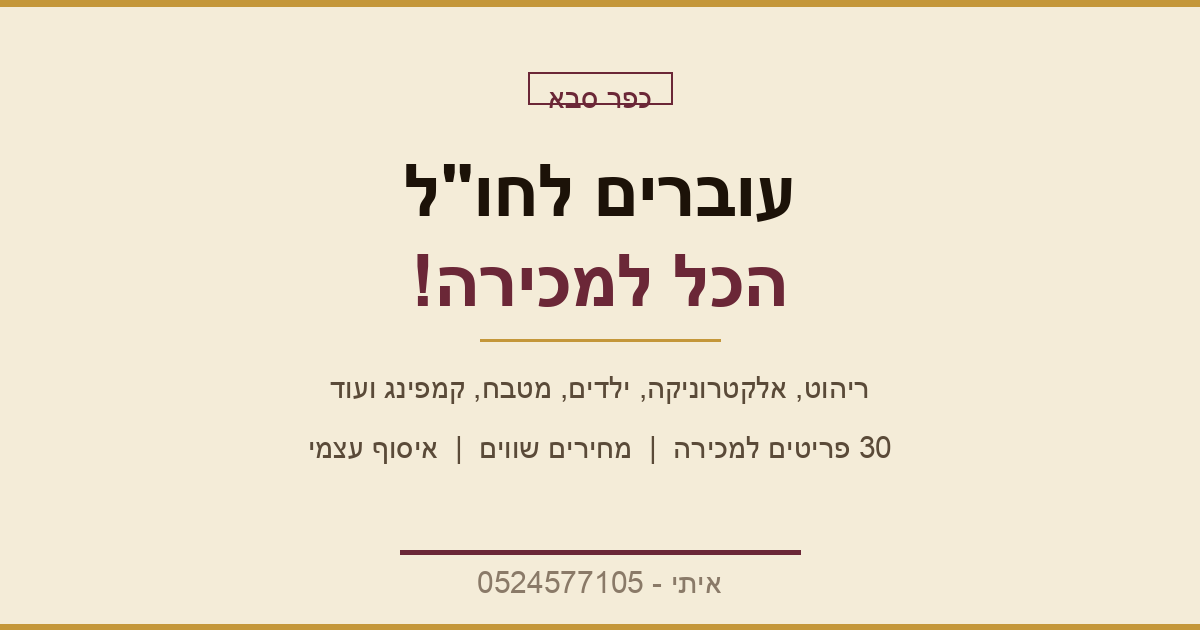
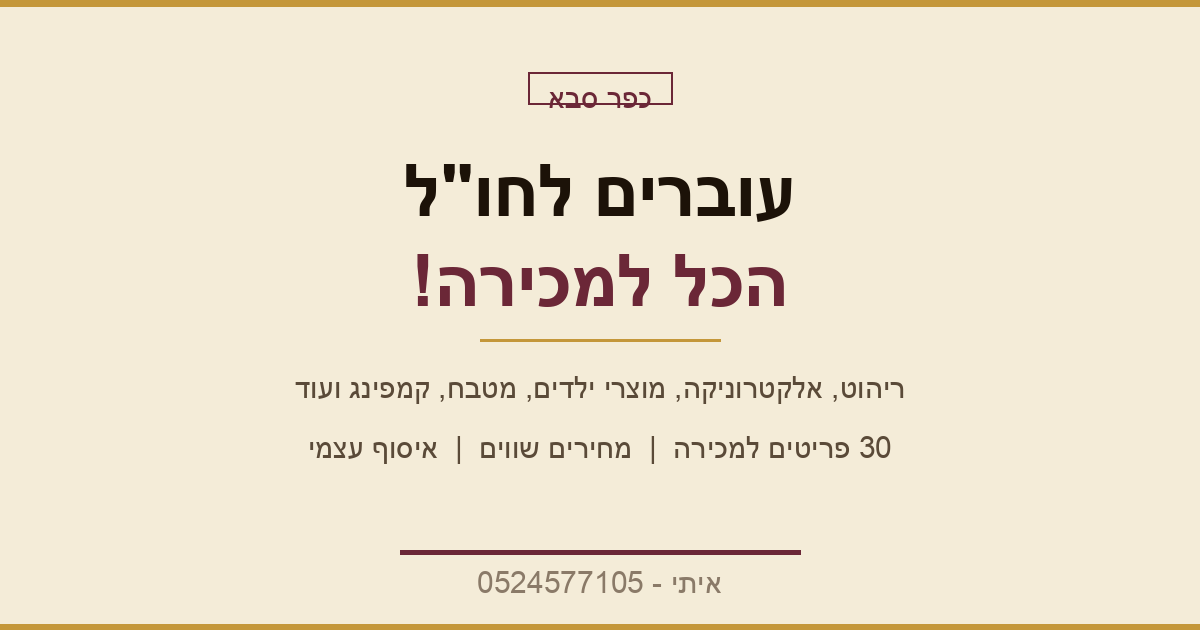
Fix typos: מוצרי ילדים, טוסטר אובן, remove לבן from microwave

Changed region(s): [[0.2467, 0.6032, 0.7708, 0.6333]]

diff --git a/index.html b/index.html
@@ -267,7 +267,7 @@ a { text-decoration: none; color: inherit; }
 <a class="card" href="https://www.facebook.com/marketplace/item/27445957575107365/" target="_blank">
 <div class="img-wrap"><img src="https://scontent.ftlv18-1.fna.fbcdn.net/v/t45.5328-4/762467006_1552759643257777_1869000780729167283_n.webp?stp=c0.0.400.400a_dst-webp&_nc_cat=109&ccb=1-7&_nc_sid=247b10&_nc_ohc=7S6YBOp4XpMQ7kNvwEtPoQv&_nc_oc=Adr6Ev3PEpF23DTP6J6tfPdZTKoALHtGWoDfOxoZIzy5kzxFRfly3BWa-Fbxd_wXq30&_nc_zt=23&_nc_ht=scontent.ftlv18-1.fna&_nc_gid=jkgOclF7PaJA1D_2cMqTbw&_nc_ss=7b2a8&oh=00_AQHeHW1KT08DeF4R-UWzb6nhHQAWtQ_qAd2GzbUcJ8m5Gg&oe=6A781A0C" alt="Morphy Richards"></div>
 <div class="card-body">
-  <div class="card-title">Morphy Richards 44454 - טוסר אובן</div>
+  <div class="card-title">Morphy Richards 44454 - טוסטר אובן</div>
   <div class="card-detail">1500W</div>
   <div class="card-price-row"><div class="card-price">₪350</div><span class="badge">זמין</span></div>
 </div></a>
@@ -275,7 +275,7 @@ a { text-decoration: none; color: inherit; }
 <a class="card" href="https://www.facebook.com/marketplace/item/27737057445977566/" target="_blank">
 <div class="img-wrap"><img src="https://scontent.ftlv27-1.fna.fbcdn.net/v/t45.5328-4/761164967_4012714592196147_9202807096043290284_n.webp?stp=c0.0.400.400a_dst-webp&_nc_cat=105&ccb=1-7&_nc_sid=247b10&_nc_ohc=utdXHfe6lW8Q7kNvwHYH_70&_nc_oc=AdqUIHCwQ6MxqKm4P0qr3P5heBajCpXmXNMGtobjlGWBoNZHqyUC2nYitoguf1-NOmc&_nc_zt=23&_nc_ht=scontent.ftlv27-1.fna&_nc_gid=jkgOclF7PaJA1D_2cMqTbw&_nc_ss=7b2a8&oh=00_AQHDvqugwnSGyiejJtOHIYgb31jlqghNsReFzP767OIfNA&oe=6A77ED42" alt="Samsung microwave"></div>
 <div class="card-body">
-  <div class="card-title">מיקרוגל Samsung לבן</div>
+  <div class="card-title">מיקרוגל Samsung</div>
   <div class="card-detail">פנים קרמיקה</div>
   <div class="card-price-row"><div class="card-price">₪300</div><span class="badge">זמין</span></div>
 </div></a>
